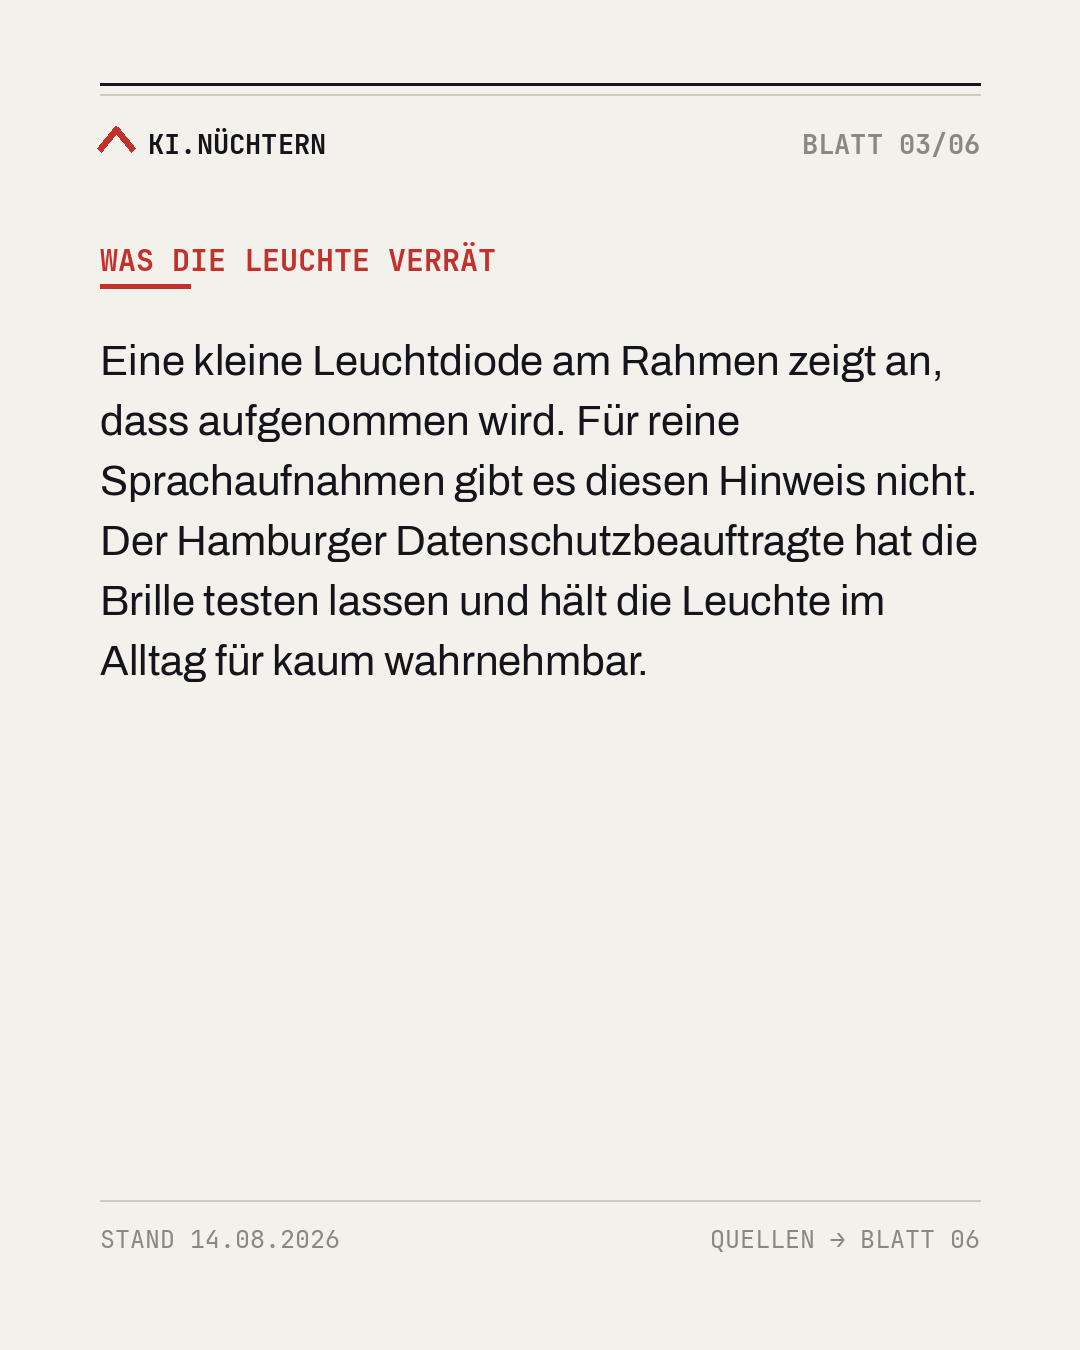
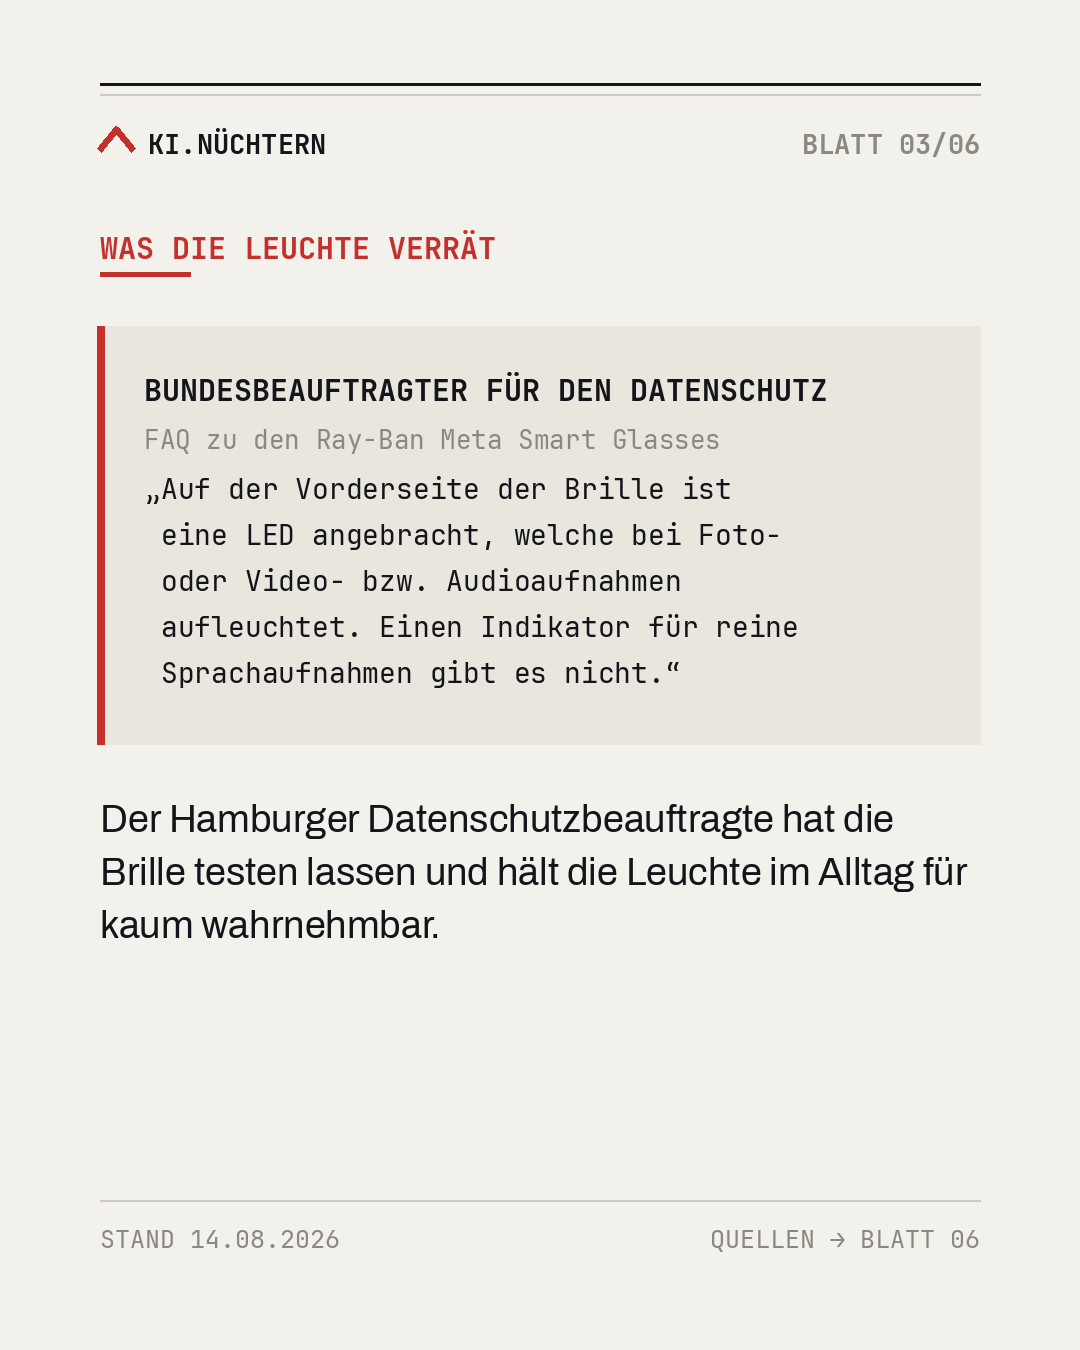
Beleg-Panel für Post 10; Bildregeln in CLAUDE.md aufgenommen
- Post 10, Blatt 03: Fließtext durch Beleg-Panel mit dem WÖRTLICHEN
  BfDI-Zitat ersetzt ("Einen Indikator für reine Sprachaufnahmen gibt es
  nicht."). Wortlaut vorher an der Quelle gegengeprüft, weil die bisherige
  Notiz nur eine Zusammenfassung war und so nicht in Anführungszeichen
  gehört. Exakte Zitate zusätzlich in sources.md hinterlegt.
- CLAUDE.md, Post-Regeln: neuer Abschnitt "Bildhaftes". Ein Beleg-Panel je
  Post, nur wörtliche Zitate darin, Zahlenreihen als Balken mit linearer
  Skala, höchstens zwei bebilderte Blätter, keine Fotos und keine
  KI-Bilder.
- post.md und Alt-Text nachgezogen.

Claude-Session: https://claude.ai/code/session_01VpmRBZTZYpYDB8XJQn3xpE

diff --git a/render/build_slides.py b/render/build_slides.py
@@ -1282,12 +1282,18 @@ def build_post10():
 
     # --- 03 Was die Leuchte verrät
     img, d = new(3, T, ST)
-    y = kicker(d, 240, "Was die Leuchte verrät")
-    block(d, y, "Eine kleine Leuchtdiode am Rahmen zeigt an, dass aufgenommen wird. Für "
-                "reine Sprachaufnahmen gibt es diesen Hinweis nicht. Der Hamburger "
-                "Datenschutzbeauftragte hat die Brille testen lassen und hält die "
-                "Leuchte im Alltag für kaum wahrnehmbar.",
-          f("BOOK", 42), INK, MAXW, 1.44)
+    y = kicker(d, 228, "Was die Leuchte verrät")
+    y = beleg(d, y, "Bundesbeauftragter für den Datenschutz",
+              ['„Auf der Vorderseite der Brille ist',
+               ' eine LED angebracht, welche bei Foto-',
+               ' oder Video- bzw. Audioaufnahmen',
+               ' aufleuchtet. Einen Indikator für reine',
+               ' Sprachaufnahmen gibt es nicht.“'],
+              sub="FAQ zu den Ray-Ban Meta Smart Glasses")
+    y += 54
+    block(d, y, "Der Hamburger Datenschutzbeauftragte hat die Brille testen lassen und "
+                "hält die Leuchte im Alltag für kaum wahrnehmbar.",
+          f("BOOK", 38), INK, MAXW, 1.42)
     slides.append(img)
 
     # --- 04 Wer noch mitschaut

diff --git a/posts/post-010-meta-brille-ki/post.md b/posts/post-010-meta-brille-ki/post.md
@@ -4,6 +4,8 @@
 - **Tag:** aktuell (HateAid-Strafanzeige vom 12.08.2026, Bundesnetzagentur prüft)
 - **Status:** gerendert (6 Blätter, 14.08.2026)
 - **Blätter:** 6 (Textdichte auf Post-9-Niveau, rund 50 Wörter je Inhaltsblatt)
+- **Bildhaftes:** Blatt 03 Beleg-Panel mit dem wörtlichen BfDI-Zitat zur fehlenden Anzeige bei
+  Sprachaufnahmen. Keine Balkenreihe, weil dem Post eine Zahlenentwicklung fehlt.
 - **Warum jetzt / warum stark:** Über sieben Millionen verkaufte Geräte, und seit dem 12. August läuft eine
   Strafanzeige gegen Meta und vier Händlerketten. Der Post erklärt, was technisch drinsteckt, statt nur
   zu warnen, und korrigiert die verbreitete Schlagzeile „Verbot droht".
@@ -19,7 +21,7 @@
 |-------|--------|--------|
 | 01 | Hook | **DIE BRILLE SIEHT, WAS DU SIEHST. UND HÖRT ZWEI METER WEIT.** Über sieben Millionen sind verkauft. Ansehen kann man ihnen das kaum. |
 | 02 | Was drinsteckt | Kamera und sechs Mikrofone, laut BfDI mindestens zwei Meter Reichweite. Die KI greift auf die Kamera zu und wertet aus, was der Träger ansieht. Übersetzung läuft auf dem Gerät, bei aktiver Cloud-Verarbeitung gehen Daten an Metas Server. |
-| 03 | Was die Leuchte verrät | LED zeigt an, dass aufgenommen wird. Für reine Sprachaufnahmen gibt es keinen Hinweis. Der Hamburger Datenschutzbeauftragte hält die Leuchte im Alltag für kaum wahrnehmbar. |
+| 03 | Was die Leuchte verrät | **Beleg-Panel** mit dem Wortlaut des BfDI: LED leuchtet bei Foto, Video und Audio, „Einen Indikator für reine Sprachaufnahmen gibt es nicht." Darunter: Der Hamburger Datenschutzbeauftragte hält die Leuchte im Alltag für kaum wahrnehmbar. |
 | 04 | Wer noch mitschaut | Februar 2026, Nairobi: über dreißig Beschäftigte beschrifteten Material aus den Brillen fürs KI-Training und sahen Nacktaufnahmen, Sex und Bankdaten. Meta beendete den Vertrag. Der BfDI schreibt dagegen, Bildmaterial werde derzeit nicht genutzt. Das passt nicht zusammen. |
 | 05 | Was für dich gilt | Wer Fremde filmt, verarbeitet deren Daten, die Privatausnahme greift draußen nicht. Aufgenommene können ihre Rechte laut BfDI kaum ausüben. Seit 12. August läuft eine Strafanzeige. Ein Verbot steht bisher nicht an, die Bundesnetzagentur sieht die Voraussetzungen nicht erfüllt. |
 | 06 | Quellen | BfDI-FAQ · HateAid 12.08.2026 · Svenska Dagbladet und Göteborgs-Posten · Kein Rechtsrat. |
@@ -54,7 +56,7 @@
 
 - **01:** Papierbeiges Aktenblatt, große Schlagzeile „Die Brille sieht, was du siehst, und hört zwei Meter weit", darunter der Hinweis auf über sieben Millionen verkaufte Geräte.
 - **02:** Kicker „Was drinsteckt": Kamera und sechs Mikrofone mit mindestens zwei Metern Reichweite, KI mit Kamerazugriff, Live-Übersetzung lokal, Cloud-Verarbeitung überträgt an Metas Server.
-- **03:** Kicker „Was die Leuchte verrät": LED signalisiert Foto und Video, für reine Sprachaufnahmen fehlt der Hinweis, Hamburger Datenschutzbeauftragter hält sie für kaum wahrnehmbar.
+- **03:** Kicker „Was die Leuchte verrät": ein hervorgehobenes Zitatfeld mit dem Wortlaut des Bundesdatenschutzbeauftragten, wonach die LED bei Foto-, Video- und Audioaufnahmen aufleuchtet, es für reine Sprachaufnahmen aber keinen Indikator gibt. Darunter: Der Hamburger Datenschutzbeauftragte hält die Leuchte im Alltag für kaum wahrnehmbar.
 - **04:** Kicker „Wer noch mitschaut": Recherche aus Nairobi vom Februar 2026, über dreißig Beschäftigte beschrifteten Brillenmaterial fürs KI-Training, Meta beendete den Vertrag, 1.108 Betroffene.
 - **05:** Kicker „Was für dich gilt": Träger verarbeiten fremde Daten, Privatausnahme greift draußen nicht, Aufgenommene können Rechte kaum ausüben, Strafanzeige seit 12. August, Bundesnetzagentur sieht keinen Verbotsgrund.
 - **06:** Kicker „Quellen": FAQ des Bundesdatenschutzbeauftragten, HateAid-Strafanzeige vom 12. August 2026, Recherche von Svenska Dagbladet und Göteborgs-Posten, Hinweis kein Rechtsrat.

diff --git a/posts/post-010-meta-brille-ki/sources.md b/posts/post-010-meta-brille-ki/sources.md
@@ -22,12 +22,12 @@ Verbot des Inverkehrbringens getarnter Abhör- und Bildaufnahmegeräte.
 
 | Aussage im Post | Quelle | Belastbarkeit |
 |---|---|---|
-| Kamera und Mikrofone; Mikrofone nehmen **mindestens zwei Meter** weit auf | P1 | belastbar (Aufsichtsbehörde) |
+| Kamera und Mikrofone; Mikrofone nehmen **mindestens zwei Meter** weit auf | P1, wörtlich: „Soweit aus der Dokumentation von Meta zur Übersetzungsfunktion ersichtlich, kann das Mikrofon mindestens im Umkreis von zwei Metern aufnehmen." | belastbar (Aufsichtsbehörde) |
 | **Sechs Mikrofone** in Gen 2 seit April 2026 (vorher fünf) | Fachberichterstattung zur Gen-2-Modellpflege | einzelquelle |
 | KI greift auf die Kamera zu und analysiert Bildinhalte (Gebäude beschreiben, Speisekarten übersetzen) | P1 | belastbar |
 | **Live-Übersetzung läuft lokal** auf dem Gerät | P1 | belastbar |
 | Datenübertragung an Meta-Server **nur bei aktivierter Cloud-Verarbeitung**, außerdem beim KI-Feature | P1 | belastbar |
-| **LED leuchtet bei Foto, Video und Audio; für reine Sprachaufnahmen existiert kein Indikator**; bei Gegenlicht oder Sonne möglicherweise nicht sichtbar | P1 | belastbar |
+| **LED leuchtet bei Foto, Video und Audio; für reine Sprachaufnahmen existiert kein Indikator**; bei Gegenlicht oder Sonne möglicherweise nicht sichtbar | P1, wörtlich: „Auf der Vorderseite der Brille ist eine LED angebracht, welche bei Foto- oder Video- bzw. Audioaufnahmen aufleuchtet. Einen Indikator für reine Sprachaufnahmen gibt es nicht." (Wortlaut am 14.08.2026 an der Quelle geprüft, steht als Zitat auf Blatt 03) | belastbar |
 | Hamburger Datenschutzbeauftragter **Thomas Fuchs**: Verbot möglich, LED im Alltag kaum wahrnehmbar (Aussage Ende Juli 2026); Behörde prüft seit Sommer 2025 | Berichterstattung mehrerer Medien, übereinstimmend | belastbar (mehrfach), **Originalzitat nicht selbst eingesehen** |
 | Betroffene können ihre DSGVO-Rechte **nur eingeschränkt** ausüben | P1 | belastbar |
 | Aufnahmen Fremder im öffentlichen Raum sind Verarbeitung personenbezogener Daten; die **Haushaltsausnahme greift dort nicht** | DSGVO Art. 2 Abs. 2 lit. c; übereinstimmende Fachdarstellungen | belastbar |

diff --git a/CLAUDE.md b/CLAUDE.md
@@ -60,6 +60,18 @@ Gilt für jeden Karussell-Post. Vorbild sind Post 7, 8 und 9.
 - Kicker variieren, nicht schematisch durchzählen. Ganze Sätze, Alltagssprache.
 - Zahlen ausschreiben und einordnen, statt sie nur zu nennen.
 
+**Bildhaftes (stützt den Beleg, schmückt nie)**
+- **Ein Beleg-Panel je Post.** Die wichtigste Fundstelle wird als Objekt gesetzt statt als Fließtext:
+  `beleg(d, y, kopf, zeilen, sub=)` zeichnet beiges Feld, roten Balken links, Monospace.
+  **Nur wörtliche Zitate ins Panel.** Wortlaut vorher an der Quelle prüfen, keine Zusammenfassung
+  in Anführungszeichen setzen. Kopf nennt die Quelle, `sub` das Datum.
+- **Zahlenreihen als Balken statt im Text:** `balken(d, y, [(label, wert, anzeige)])`.
+  **Immer lineare Skala**, auch wenn ein Balken dadurch zum Splitter wird. Genau das ist die Aussage.
+- **Höchstens zwei bebilderte Blätter je Post.** Die Ruhe des Aktenblatts ist das
+  Unterscheidungsmerkmal im Feed, sie darf nicht wegdekoriert werden.
+- **Keine Fotos, keine Stockbilder, keine KI-Bilder.** Alles wird aus der Marken-Palette gezeichnet.
+  (KI-Bilder wären zusätzlich nach Art. 50 kennzeichnungspflichtig, siehe Repo-Konventionen.)
+
 **Immer dabei**
 - **Caption:** Kern zuerst, dann die Einschränkung, dann was es für den Leser heißt. Endet mit
   Quellenhinweis und Korrektur-Einladung. Fünf bis neun Hashtags.
